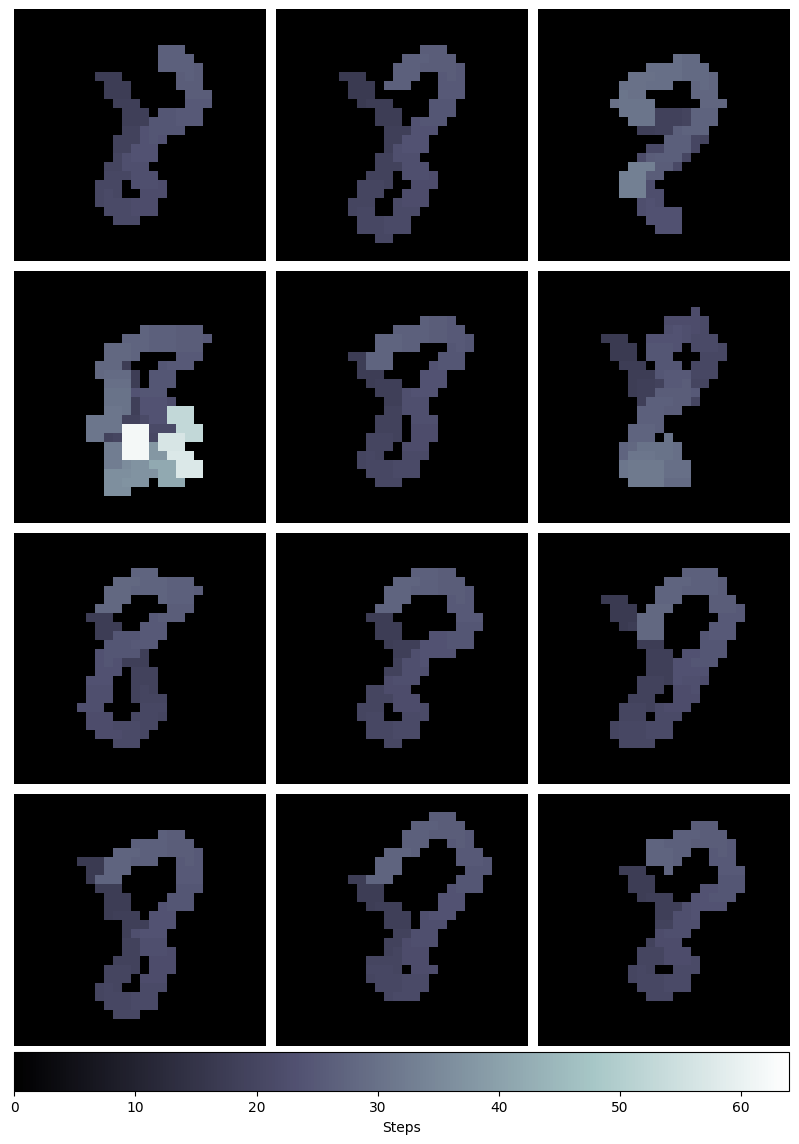
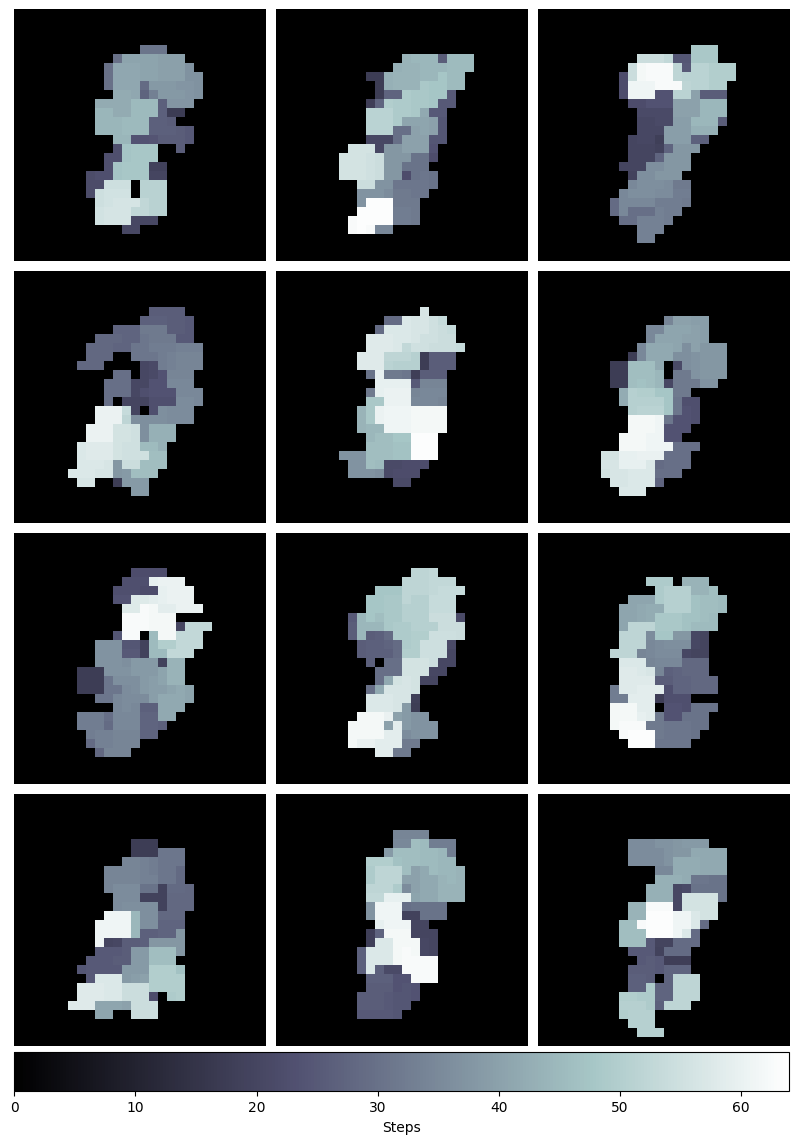
noisy pixel test close to working

diff --git a/src/train.py b/src/train.py
@@ -83,7 +83,7 @@ def reproduce(args):
 
     #hyp_data = hyperparameter_loader("src/opti.json", model_name)
     #Manual hyperparameters:
-    hyp_data = {"gamma": 0.7, "epsilon_episodes": 2000, "epsilon": 0.3, "alpha": 0.00015, "replace_target": 6000, "episode_mem_size": 90, "n_episodes": 5000} 
+    hyp_data = {"gamma": 0.7, "epsilon_episodes": 2000, "epsilon": 0.3, "alpha": 0.00015, "replace_target": 6000, "episode_mem_size": 900, "n_episodes": 5000} 
 
     # Agent, Environment constants
     canvas_size = 28
@@ -102,7 +102,7 @@ def reproduce(args):
     data = AI_Data(dataset=args.dataset)
     data.sample(n_episodes)
 
-    env = Rep_Env(canvas_size, patch_size, data.labeled_pro_data, with_stopAction=args.stopAction, with_liftpen=args.liftpen, with_overdraw=args.overdraw, generative=False)
+    env = Rep_Env(canvas_size, patch_size, data.labeled_pro_data, with_stopAction=args.stopAction, with_liftpen=args.liftpen, with_overdraw=args.overdraw, with_noisy=False, generative=False)
     agent_args = {"softmax": args.softmax,"gamma": hyp_data["gamma"], "epsilon": hyp_data["epsilon"], "epsilon_episodes": hyp_data["epsilon_episodes"], "alpha": hyp_data["alpha"], "replace_target": int(hyp_data["replace_target"]), 
                   "global_input_dims": glob_in_dims, "local_input_dims": loc_in_dims, 
                   "mem_size": mem_size, "batch_size": batch_size}
@@ -137,7 +137,7 @@ def generative(args):
 
     hyp_data = hyperparameter_loader("src/opti.json", model_name)
     #Manual hyperparameters:
-    hyp_data = {"gamma": 0.8, "epsilon_episodes": 2000, "epsilon": 0.3, "alpha": 0.0002, "replace_target": 6000, "episode_mem_size": 50, "n_episodes": 6000} 
+    hyp_data = {"gamma": 0.8, "epsilon_episodes": 2000, "epsilon": 0.3, "alpha": 0.0002, "replace_target": 6000, "episode_mem_size": 900, "n_episodes": 6000} 
 
     # Agent, Environment constants
     canvas_size = 28
@@ -159,7 +159,7 @@ def generative(args):
     
 
 
-    env = Rep_Env(canvas_size, patch_size, data.labeled_pro_data, with_stopAction=2, with_liftpen=args.liftpen, with_overdraw=args.overdraw, generative=True)
+    env = Rep_Env(canvas_size, patch_size, data.labeled_pro_data, with_stopAction=2, with_liftpen=args.liftpen, with_overdraw=args.overdraw, with_noisy=args.noisyPixel, generative=True)
     agent_args = {"softmax": args.softmax, "gamma": hyp_data["gamma"], "epsilon": hyp_data["epsilon"], "epsilon_episodes": hyp_data["epsilon_episodes"], "alpha": hyp_data["alpha"], "replace_target": int(hyp_data["replace_target"]), 
                   "global_input_dims": glob_in_dims, "local_input_dims": loc_in_dims, 
                   "mem_size": mem_size, "batch_size": batch_size}
@@ -193,6 +193,7 @@ if __name__ == "__main__":
     parser.add_argument("-s", "--stopAction", help="Run the stopAction version", action="store", default=0)
     parser.add_argument("-o", "--overdraw", help="Run the Overdraw reward function", action="store_true", default=False)
     parser.add_argument("-l", "--liftpen", help="Run the liftpen reward function", action="store_true", default=False)
+    parser.add_argument("-np", "--noisyPixel", help="Run the noisypixel variation", action="store_true", default=False)
     parser.add_argument("--debug", help="Verbose for the logging", action="store_true", default=False)
     args = parser.parse_args()
     
@@ -207,6 +208,7 @@ if __name__ == "__main__":
     log.info(f"StopAction Variation: {args.stopAction}")
     log.info(f"Overdraw Variation: {args.overdraw}")
     log.info(f"Liftpen Variation: {args.liftpen}")
+    log.info(f"noisy-pixel Variation: {args.noisyPixel}")
 
 
     if args.physics:

diff --git a/src/reproduce_modules/environment.py b/src/reproduce_modules/environment.py
@@ -10,7 +10,7 @@ from extras.logger import critical
 
 
 class Environment(object):
-    def __init__(self, sidelength: int, patchsize: int, referenceData: np.array, with_stopAction : int = 0,  with_liftpen : bool = False, with_overdraw : bool = False, generative : bool = False, do_render : bool = True):
+    def __init__(self, sidelength: int, patchsize: int, referenceData: np.array, with_stopAction : int = 0,  with_liftpen : bool = False, with_overdraw : bool = False, with_noisy : bool = False, generative : bool = False, do_render : bool = True):
         self.s = sidelength
         self.p = patchsize  # sidelength of patch (local Input). must be odd
 
@@ -56,6 +56,7 @@ class Environment(object):
         self.with_stopAction = int(with_stopAction)
         self.with_overdraw = with_overdraw
         self.with_liftpen = with_liftpen
+        self.with_noisy = with_noisy
         self.generative = generative
 
         self.overdrawn_perepisode = 0
@@ -98,8 +99,12 @@ class Environment(object):
             shown_ref = self.reference
             shown_patch = self.ref_patch
         else:
-            shown_ref = np.zeros((28,28))
-            shown_patch = np.zeros((7,7))
+            if self.with_noisy:
+                shown_ref = np.random.random((self.s,self.s))
+                shown_patch = np.random.random((self.p,self.p))
+            else:
+                shown_ref = np.zeros((self.s,self.s))
+                shown_patch = np.zeros((self.p,self.p))
 
         return np.array([shown_ref, self.canvas, self.distmap, self.colmap]), np.array([shown_patch, self.canvas_patch]), reward
 
@@ -323,8 +328,12 @@ class Environment(object):
             shown_ref = self.reference
             shown_patch = self.ref_patch
         else:
-            shown_ref = np.zeros((28,28))
-            shown_patch = np.zeros((7,7))
+            if self.with_noisy:
+                shown_ref = np.random.random((self.s,self.s))
+                shown_patch = np.random.random((self.p,self.p))
+            else:
+                shown_ref = np.zeros((self.s,self.s))
+                shown_patch = np.zeros((self.p,self.p))
 
         return np.array([shown_ref, self.canvas, self.distmap, self.colmap]), np.array([shown_patch, self.canvas_patch])
 

diff --git a/src/test.py b/src/test.py
@@ -120,7 +120,7 @@ def generative_test(args):
     # initialize environment
     canvas_size = 28
     patch_size = 7
-    env = Rep_Env(canvas_size, patch_size, referenceData=np.full((args.test, 28, 28), 1), with_stopAction=True)
+    env = Rep_Env(canvas_size, patch_size, referenceData=np.full((args.test, 28, 28), 1), with_stopAction=True, with_noisy=args.noisyPixel)
 
     agent_args = {"softmax": args.softmax, "gamma": 0, "epsilon_episodes": 1000, "epsilon": 0, "alpha": 0, "replace_target": 1000, 
                   "global_input_dims": (4, canvas_size, canvas_size), "local_input_dims": (2, patch_size, patch_size), 
@@ -157,6 +157,7 @@ if __name__ == "__main__":
     parser.add_argument("-p", "--physics", help="Run the physics version", action="store_true", default=False)
     parser.add_argument("-g", "--generative", help="Run the Generative version", action="store_true", default=False)
     parser.add_argument("-sm", "--softmax", help="Run the NN with Softmax activation", action="store_true", default=False)
+    parser.add_argument("-np", "--noisyPixel", help="Run the NoisyPixel version", action="store_true", default=False)
     parser.add_argument("--debug", help="Verbose for the logging", action="store_true", default=False)
     args = parser.parse_args()
     

diff --git a/src/reproduce_modules/nn_agent.py b/src/reproduce_modules/nn_agent.py
@@ -191,8 +191,8 @@ class Agent(object):
         :return: Index of the action the agent wants to take
         :rtype: int
         """
-        action = 0
 
+        action = 0
         # Check if the agent should explore
         rand = np.random.random()
         if rand < self.epsilon or replay_fill:
@@ -209,27 +209,12 @@ class Agent(object):
             # Ask the QNetwork for an action
             actions = np.array(self.q_eval.dqn([glob_batch, loc_batch])[0])
 
-
-            """ for i, el in enumerate(illegal_list):
-                if el == 1:
-                    actions[i] = 0
-            try:
-                actions /= np.sum(actions)
-            except:
-                print(np.sum(actions))
-                print(actions) """
-
             while illegal_list[np.argmax(actions)] == 1:
                 actions[np.argmax(actions)] = -1
-
-
             # Take the index of the maximal value -> action
             action = int(np.argmax(actions))
             
-
         return action
-
-        
 
 
     def choose_action_softmax(self, global_state: np.array, local_state: np.array, illegal_list : np.array, replay_fill: bool = False):

diff --git a/src/extras/test_functions.py b/src/extras/test_functions.py
@@ -140,6 +140,8 @@ def generative_test_env(env, agent, n_episodes, n_steps=64):
                         action = agent.choose_action_softmax(global_obs, local_obs, illegal_moves, replay_fill=False)
                     else:
                         action = agent.choose_action(global_obs, local_obs, illegal_moves, replay_fill=False)
+
+                        print(action)
             else:
                 action = np.random.choice(env.n_actions)
 
